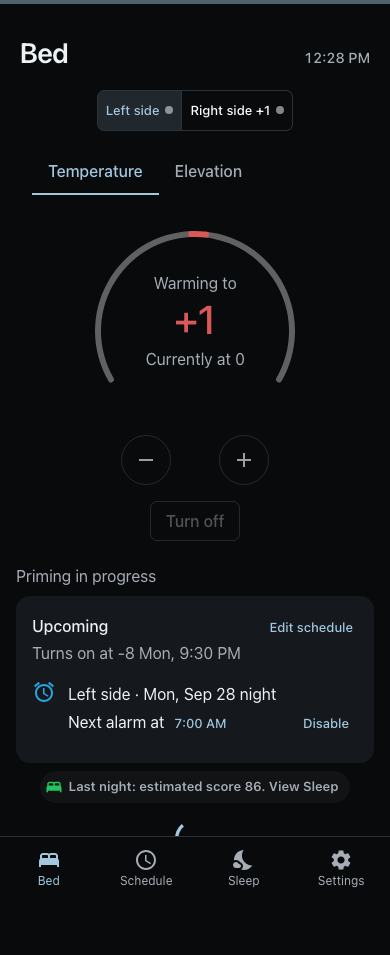
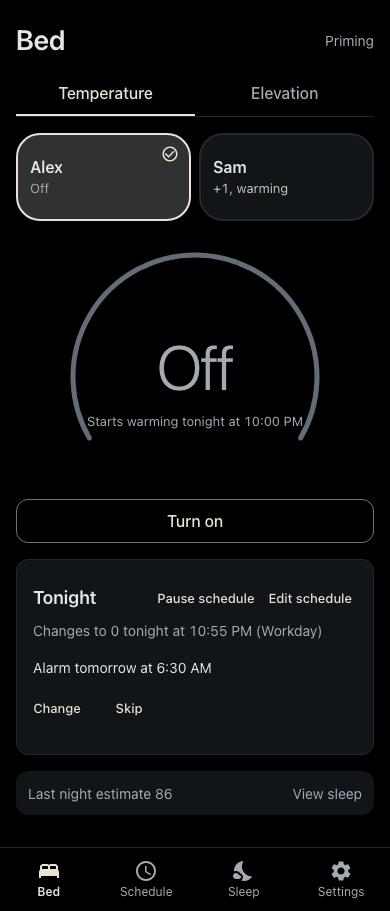
docs: describe rhythms and refresh the screenshots
Rhythms adds a Schedule screen, a rhythm editor and Bed readouts that
follow the resolved sleeps, so the README now says what it does and how
to turn it off, and the screenshots show the current Bed, Schedule and
Settings screens from the demo.

diff --git a/README.md b/README.md
@@ -98,7 +98,11 @@ unless you set up [remote access with Tailscale](docs/REMOTE_ACCESS.md).
 - Temperature control in °F, °C, or the official app's -10 to +10 scale,
   with live updates
 - Schedules for power on and off, overnight temperature changes, daily
-  priming, and alarms with vibration patterns
+  priming, and alarms with vibration patterns, and a pause for one side
+  for tonight, until a set time or until you resume
+- Rhythms (beta, off by default): named sleep plans for each side, a week
+  that picks one for each day, and changes for single dates up to 60 days
+  ahead, with an optional Smart Schedule temperature curve
 - Sleep and health data: heart rate, HRV, breathing rate, movement, sleep
   stages, and a sleep score (see [Biometrics](#biometrics) for accuracy)
 - Adjustable-base controls on compatible hardware, with presets and manual
@@ -119,11 +123,40 @@ In Settings:
   the bed's capacitance sensors to tell the two sides apart (see
   [Biometrics](#biometrics)). On Pod 3 and Pod 4 it has no effect yet: it reads the
   Pod 5's capacitance format and has only been checked on Pod 5 data.
+- **Rhythms (beta)** under Features: off by default. The first time you turn it
+  on, it copies the weekly schedule into named rhythms and keeps the weekly
+  schedule as it is. After that, turning it on brings back your saved rhythms.
+  Turning it off brings the weekly schedule back exactly as it was.
 - **Level temperature display** and
   **one-time alarms** under Features: on by default.
 
 Next to daily priming, the restart an hour before priming is on by default and
 only runs while priming is on.
+
+### Rhythms and Smart Schedule
+
+With Rhythms on, the Schedule tab shows a Week, the coming dates and your
+rhythms. A rhythm is one night: bedtime, wake time, alarms, turn off and
+temperatures. The Week picks a rhythm, or no sleep, for each day, and any
+date up to 60 days ahead can use a different one. Week and date changes save
+at once and can be undone, and every date change is listed in one place. The
+Bed page follows the same sleeps.
+
+A rhythm sets its temperatures by hand or with Smart Schedule. Smart
+Schedule follows a common pattern from sleep and temperature research:
+comfortable when you lie down, a little cooler once you are asleep, and
+warming gently before your wake time. Changes are small and gradual and
+stay within a few steps of a base temperature you choose. With biometrics
+on, the cool-down waits until you have settled in bed, up to two hours
+after bedtime. A temperature you set by hand holds until the curve's next
+phase, at most three hours. The step sizes and timings are our own
+estimates: the studies listed in the app under "Based on sleep research"
+used other beds and did not test this curve. It is a general starting
+point, not a medical recommendation.
+
+Turning Rhythms off, rolling back or switching to upstream free-sleep
+leaves the weekly schedule as it was, and your rhythms are kept in their
+own file for next time.
 
 ### Biometrics
 
@@ -271,15 +304,20 @@ warranty.
 
 These screenshots use sample data and show the Bed, Schedule, Sleep and
 Settings layout. The hosted [demo](https://ltimothy.github.io/nightstand/)
-follows the published release and may differ from this checkout.
+follows the published release and may differ from this checkout. The
+Schedule screenshot shows Rhythms, which is off by default.
 
 <details>
 <summary>Adjustable base</summary>
 <img src="docs/elevation.png" width="360" alt="Bed elevation controls">
 </details>
 <details>
-<summary>Schedules and alarms</summary>
-<img src="docs/schedules.png" width="360" alt="Recurring night schedule">
+<summary>Schedule with Rhythms</summary>
+<img src="docs/schedules.png" width="360" alt="Rhythms week, coming dates and rhythm list">
+</details>
+<details>
+<summary>Rhythm editor with Smart Schedule</summary>
+<img src="docs/rhythm-editor.png" width="360" alt="Rhythm editor with times first and a Smart Schedule preview">
 </details>
 <details>
 <summary>Sleep stages, sleep score, and health metrics</summary>
